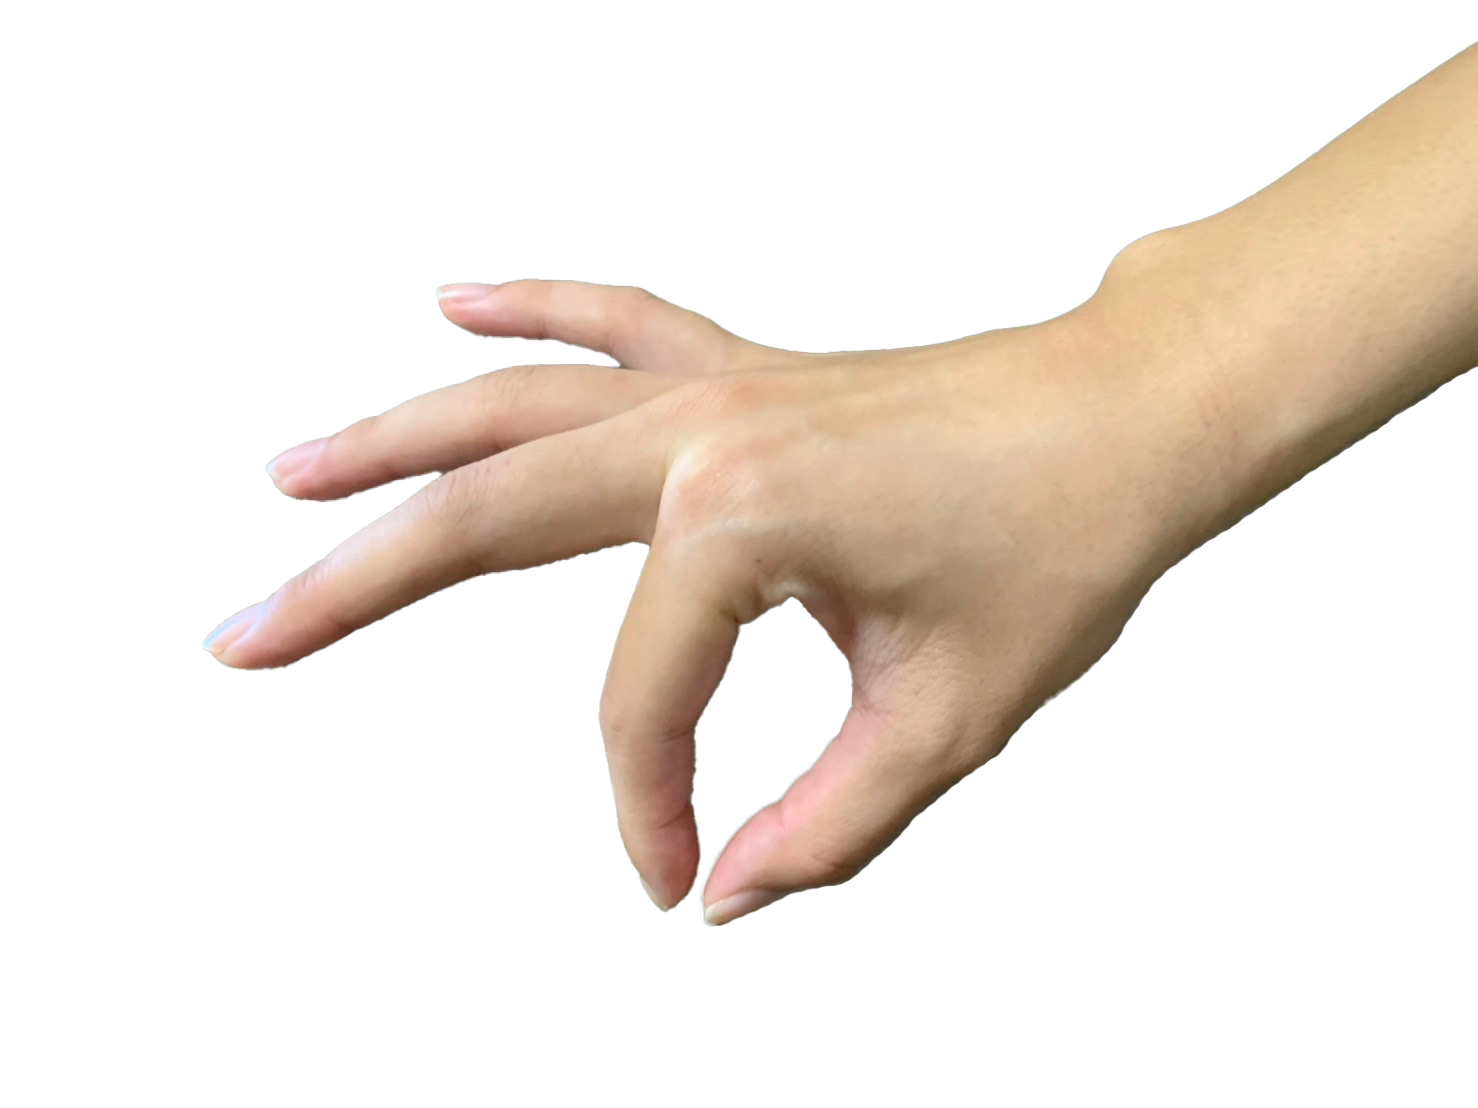
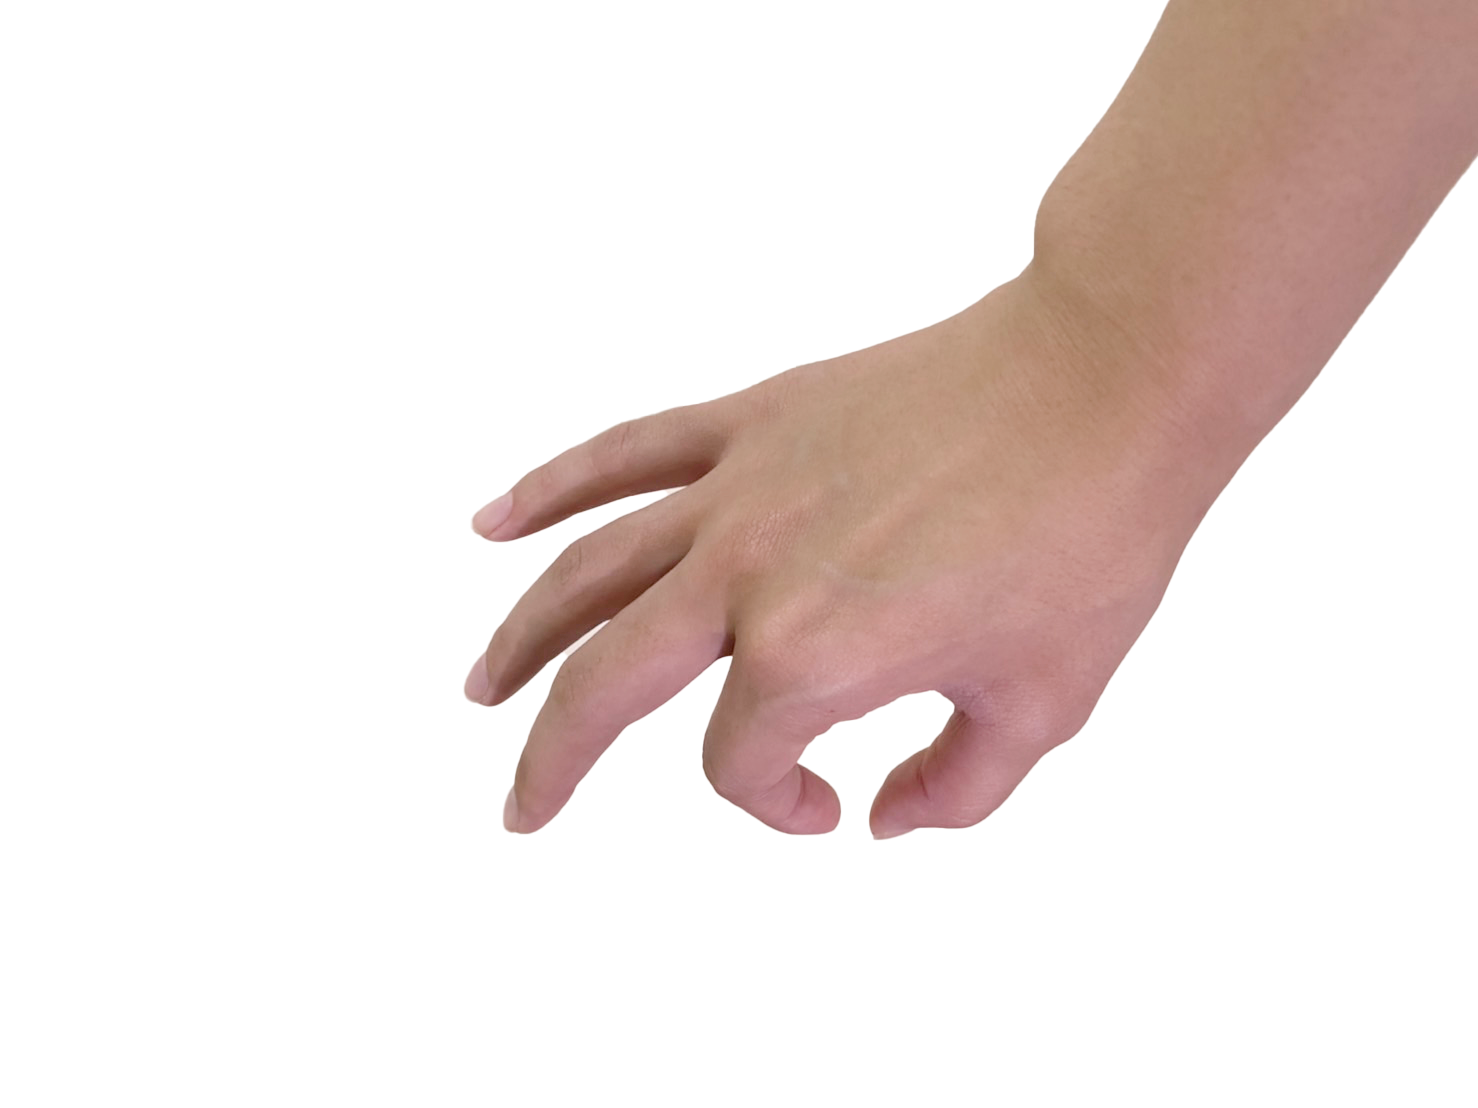
Update: 手の画像差し替え、開閉するようにした

diff --git a/Assets/MentosCola/Hand/Hand.cs b/Assets/MentosCola/Hand/Hand.cs
@@ -16,9 +16,15 @@ namespace MentosCola
 
         /// <summary>メントス初速度計算用に前フレームのメントスの位置を記憶</summary>
         Vector3 latestMentosPos = default;
+
+        [SerializeField] SpriteRenderer handSprite = default;
+        [SerializeField] Sprite handOpen = default;
+        [SerializeField] Sprite handClose = default;
+
         void Awake()
         {
             latestMentosPos = mentos.transform.position;
+            handSprite.sprite = handClose;
         }
 
         Vector3 mentosInitialVelocity = default;
@@ -54,6 +60,8 @@ namespace MentosCola
 
             mentos.transform.parent = null;
             mentosRb.velocity = mentosInitialVelocity;
+
+            handSprite.sprite = handOpen;
         }
     }
 }
